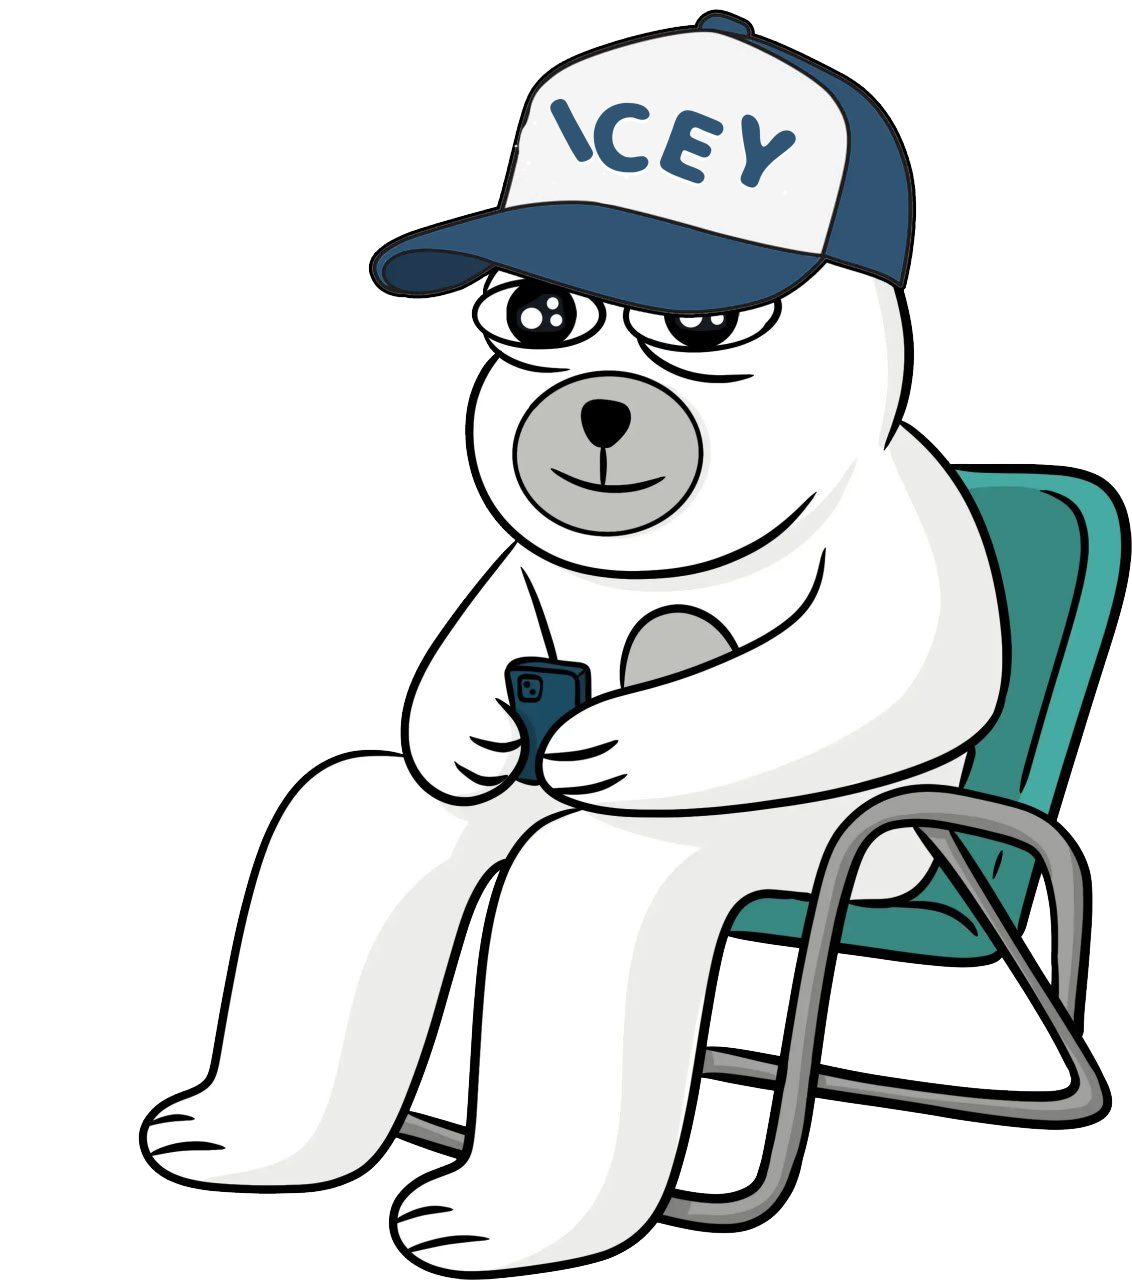
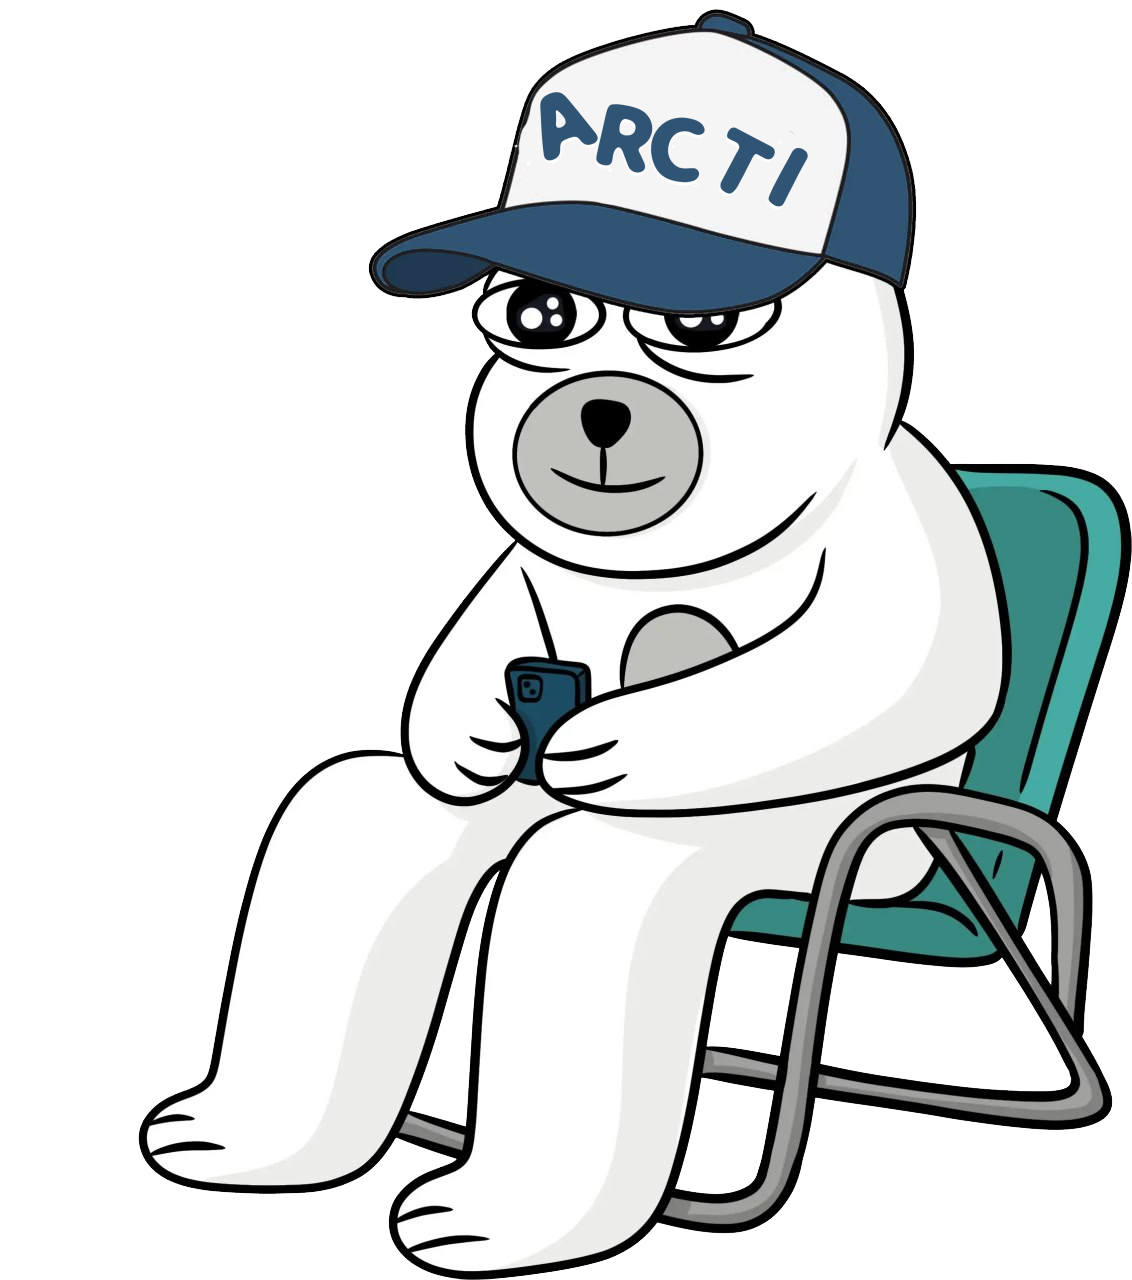
1

Changed region(s): [[0.4638, 0.0625, 0.7111, 0.1562]]

diff --git a/index.html b/index.html
@@ -16,14 +16,14 @@
 		<meta name="distribution" content="global"> 
 		<meta name="robots" content="index,follow"> 
 		<meta name="country" content="US">
-		<meta name="description" content="ICEY is the newest charismatic fluffy ruler of the frozen crypto tundra. This fun, decentralized, community-driven token is built on Solana Chain.">
+		<meta name="description" content="ARCTI is the newest charismatic fluffy ruler of the frozen crypto tundra. This fun, decentralized, community-driven token is built on Solana Chain.">
 		<meta name="google-site-verification" content="">
 		
 		<!-- Open Graph Meta Tags -->
 		<meta property="og:type" content="website">
 		<meta property="og:url" content="">
-		<meta property="og:title" content="ICEY | The Official ICEY Bear on Solanachain">
-		<meta property="og:description" content="ICEY is the newest charismatic fluffy ruler of the frozen crypto tundra. This fun, decentralized, community-driven token is built on Solana Chain.">
+		<meta property="og:title" content="ARCTI | The Official ARCTI Bear on Solanachain">
+		<meta property="og:description" content="ARCTI is the newest charismatic fluffy ruler of the frozen crypto tundra. This fun, decentralized, community-driven token is built on Solana Chain.">
 
 		
 
@@ -37,7 +37,7 @@
 		<meta name="msapplication-TileColor" content="#9c2730">
 		<meta name="theme-color" content="#ffffff">
 		
-		<title>ICEY | The Official Polar Bear on Solanachain</title>
+		<title>ARCTI | The Official Polar Bear on Solanachain</title>
 		<link href="assets/css/include.css" rel="stylesheet">
 		<!-- Google tag (gtag.js) -->
 		<script async src="https://www.googletagmanager.com/gtag/js?id=G-083C66RB80"></script>
@@ -63,17 +63,17 @@
 				<div class="container position-relative z-1">
 					<div class="hero w-100">
 						<h1 class="banner milky display-l lh-1 hstack align-items-center justify-content-center text-blue-4">
-							<span style="margin-right: 40px"> I </span>
-							<span> </span>
-							<span> C</span>
-							<span> E</span>
-							<span> Y </span>
+							<span style="margin-right: 40px">A</span>
+							<span>R</span>
+							<span>C</span>
+							<span>T</span>
+							<span>I </span>
 <!--							<span style="rotate: -10deg; margin-left:-20px; margin-right: 10px;">E</span>-->
 <!--							<span>R</span>-->
 
 						</h1>
 						<div class="vstack mx-auto col-12 col-xl-6 milky fs-3 text-center gap-1 lh-base text-blue-4">
-							<span>Hi I'm ICEY</span>
+							<span>Hi I'm ARCTI</span>
 							<span>I'm the coldest, chillest, and funniest bear</span>
 							<span>in the entire SOLArctic. Welcome to my world.</span>
 						</div>
@@ -132,8 +132,8 @@
 				<div class="container py-5 position-relative">
 					<div class="d-flex flex-column col-12 col-lg-8 justify-content-center gap-4 text-center position-relative z-1 py-0 py-md-5 text-blue-4 milky">
 						<h2 class="display-3">A New King Has Risen</h2>
-						<p class="fs-5 lh-base">Meet ICEY, the latest ruler of the icy domains of cryptocurrency, a royal polar bear who's more chilled than the arctic ice and cooler than the other side of the pillow. Born on the vast, frostbitten landscapes of the Solana Chain, this fluffy monarch has swiftly ascended to the throne, not through bloodshed or conquest, but with sheer charisma and an unshakable belief in the power of meme magic.</p>
-						<p class="fs-5 lh-base">This is not your average bear. ICEY's reign is marked by his unorthodox approach to governance; he rules with a gentle paw and a heart as big as his appetite for salmon. In a world where seriousness often overshadows fun, ICEY dares to ask, "Why not both?" He's democratizing the crypto kingdom one belly slide at a time, proving that you can indeed mix business with pleasure and that every bear can have his fish and eat it too.</p>
+						<p class="fs-5 lh-base">Meet ARCTI, the latest ruler of the icy domains of cryptocurrency, a royal polar bear who's more chilled than the arctic ice and cooler than the other side of the pillow. Born on the vast, frostbitten landscapes of the Solana Chain, this fluffy monarch has swiftly ascended to the throne, not through bloodshed or conquest, but with sheer charisma and an unshakable belief in the power of meme magic.</p>
+						<p class="fs-5 lh-base">This is not your average bear. ARCTI's reign is marked by his unorthodox approach to governance; he rules with a gentle paw and a heart as big as his appetite for salmon. In a world where seriousness often overshadows fun, ARCTI dares to ask, "Why not both?" He's democratizing the crypto kingdom one belly slide at a time, proving that you can indeed mix business with pleasure and that every bear can have his fish and eat it too.</p>
 					</div>
 				</div>
 				<div class="baby-pola"></div>
@@ -143,17 +143,17 @@
 					<div class="d-flex flex-column-reverse flex-md-row gap-4">
 						<div class="d-flex flex-column justify-content-center gap-4 col-12 col-md-6">
 							<div class="d-flex flex-column gap-1 text-blue-4">
-								<span class="fs-4 milky lh-base">ICEY on Solanachain</span>
-								<h2 class="milky display-s lh-1 ">OFFICIAL ICEY LINKS</h2>
+								<span class="fs-4 milky lh-base">ARCTI on Solanachain</span>
+								<h2 class="milky display-s lh-1 ">OFFICIAL ARCTI LINKS</h2>
 							</div>
 
 							<div class="d-flex flex-column gap-2">
 								<span class="fs-6 milky fw-bolder text-blue-4">Social &amp; Onchain Data</span>
 								<div class="socials hstack gap-3">
-									<a href="https://x.com/iceycoinsol" target="_blank">
+									<a href="https://x.com/arcticoinsol" target="_blank">
 										<div class="icon twitter rounded-circle"></div>
 									</a>
-									<a href="https://t.me/iceycoinsol" target="_blank">
+									<a href="https://t.me/arcticoinsol" target="_blank">
 										<div class="icon telegram rounded-circle"></div>
 									</a>
 									<a href="#" target="_blank">
@@ -168,7 +168,7 @@
 								<span class="fs-6 milky fw-bolder text-blue-4">Exchanges (MORE TBA)</span>
 								<div class="row row-cols-2 row-cols-lg-3 g-3">
 									<div class="col">
-										<a href="https://pump.fun/8CoCsoMF15LjrF39zxt5B6wJXwpQFmv656m4Ws1Eice" target="_blank" class="h-100 btn btn-md btn-light rounded-pill w-100 py-2 px-3">
+										<a href="https://pump.fun/t6pjbsGc2hfBVdZF7kQhSceyDdxn3rmZvP3Q3NVGump" target="_blank" class="h-100 btn btn-md btn-light rounded-pill w-100 py-2 px-3">
 											<img src="assets/logos/pumpfun.svg" class="w-75 mt-1" alt="uniswap link">
 										</a>
 									</div>
@@ -191,10 +191,10 @@
 							</div-->
 						</div>
 						<div class="col-12 col-md-4 pola-in-phone">
-							<a class="polarmy-buble polarmy-link" href="https://t.me/iceycoinsol"><img src="assets/images/pola-phone-bubble-r.png" class="w-100 " alt="click to join polarmy"></a>
-							<a href="https://t.me/iceycoinsol"><img src="assets/images/pola-phone-r.png" class="w-100 " alt="pola having fun on tg"></a>
-							<a class="polarmy-buble polarmy-link" href="https://t.me/iceycoinsol"><img src="assets/images/pola-phone-bubble-l.png" class="w-100 " alt="click to join polarmy"></a>
-							<a  href="https://t.me/iceycoinsol"><img src="assets/images/pola-phone-l.png" class="w-100 " alt="pola having fun on tg"></a>
+							<a class="polarmy-buble polarmy-link" href="https://t.me/arcticoinsol"><img src="assets/images/pola-phone-bubble-r.png" class="w-100 " alt="click to join polarmy"></a>
+							<a href="https://t.me/arcticoinsol"><img src="assets/images/pola-phone-r.png" class="w-100 " alt="pola having fun on tg"></a>
+							<a class="polarmy-buble polarmy-link" href="https://t.me/arcticoinsol"><img src="assets/images/pola-phone-bubble-l.png" class="w-100 " alt="click to join polarmy"></a>
+							<a  href="https://t.me/arcticoinsol"><img src="assets/images/pola-phone-l.png" class="w-100 " alt="pola having fun on tg"></a>
 						</div>
 					</div>
 					
@@ -220,17 +220,17 @@
 			<section id="tokenomics" class="position-relative bg-blue-4 py-5 snow-cap">
 				<div class="container py-5 position-relative">
 					<div class="vstack gap-4 text-center mb-5 col-12 col-xl-6 mx-auto text-white milky">
-						<h2 class="display-1 shouxietongzhen gradient-txt-1">ICEYnomics</h2>
-						<p class="fs-5 lh-base">Adhering to the ethos of decentralization, $ICEY adopted a strategy to ensure genuine community ownership and nurture growth with steadfast support from the community.</p>
+						<h2 class="display-1 shouxietongzhen gradient-txt-1">ARCTInomics</h2>
+						<p class="fs-5 lh-base">Adhering to the ethos of decentralization, $ARCTI adopted a strategy to ensure genuine community ownership and nurture growth with steadfast support from the community.</p>
 					</div>
 
 					<div class="d-flex flex-column flex-xl-row disclaimer rounded-4 p-3 border border-4 border-blue-1 shadow gap-3 col-12 col-xl-8 mx-auto mb-4 bg-white milky text-blue-4">
-						<a href="https://pump.fun/8CoCsoMF15LjrF39zxt5B6wJXwpQFmv656m4Ws1Eice"><button class="btn btn-lg btn-light px-3">
-							<span class="fw-bold fs-6 text-blue-4">Buy $ICEY</span>
+						<a href="https://pump.fun/t6pjbsGc2hfBVdZF7kQhSceyDdxn3rmZvP3Q3NVGump"><button class="btn btn-lg btn-light px-3">
+							<span class="fw-bold fs-6 text-blue-4">Buy $ARCTI</span>
 						</button></a>
 						<div class="col-12 col-xl-10 hstack gap-3 justify-content-between rounded-3 border p-1 fs-6">
-							<span class="text-truncate fw-bold ms-3 contact">Contract address: 8CoCsoMF15LjrF39zxt5B6wJXwpQFmv656m4Ws1Eice</span>
-							<button class="btn btn-md btn-light copy" data-text="8CoCsoMF15LjrF39zxt5B6wJXwpQFmv656m4Ws1Eice">
+							<span class="text-truncate fw-bold ms-3 contact">Contract address: t6pjbsGc2hfBVdZF7kQhSceyDdxn3rmZvP3Q3NVGump</span>
+							<button class="btn btn-md btn-light copy" data-text="t6pjbsGc2hfBVdZF7kQhSceyDdxn3rmZvP3Q3NVGump">
 								<i class="bi bi-clipboard"></i>
 							</button>
 						</div>
@@ -303,7 +303,7 @@
 									<img src="assets/images/icons/base.svg" class="w-100" alt="base logo">
 								</div>
 								<h3 class="fw-bolder fs-1 milky text-uppercase lh-1">Secure Solana (BASE ETH)</h3>
-								<p class="fs-6 lh-base milky">Purchase Solanachain Ethereum (BASE), the foundational currency required for transactions on the base network where $ICEY operates. BASE ETH acts as the "gas" for transactions, including buying $ICEY.</p>
+								<p class="fs-6 lh-base milky">Purchase Solanachain Ethereum (BASE), the foundational currency required for transactions on the base network where $ARCTI operates. BASE ETH acts as the "gas" for transactions, including buying $ARCTI.</p>
 							</div>
 						</div>
 						<div class="col">
@@ -311,8 +311,8 @@
 								<div class="col-4 col-md-2">
 									<img src="assets/images/pola-5.webp" class="w-100" alt="buy pola">
 								</div>
-								<h3 class="fw-bolder fs-1 milky text-uppercase lh-1">Buy $ICEY</h3>
-								<p class="fs-6 lh-base milky">Use your newly acquired BASE ETH to purchase $ICEY tokens through a cryptocurrency exchange or decentralized exchange platform that lists $ICEY.</p>
+								<h3 class="fw-bolder fs-1 milky text-uppercase lh-1">Buy $ARCTI</h3>
+								<p class="fs-6 lh-base milky">Use your newly acquired BASE ETH to purchase $ARCTI tokens through a cryptocurrency exchange or decentralized exchange platform that lists $ARCTI.</p>
 							</div>
 						</div>
 						<div class="col">
@@ -321,7 +321,7 @@
 									<img src="assets/images/icons/crypto-wallet.svg" class="w-100" alt="wallet logo">
 								</div>
 								<h3 class="fw-bolder fs-1 milky text-uppercase lh-1">Add To Your Wallet</h3>
-								<p class="fs-6 lh-base milky">Import $ICEY tokens into your MetaMask wallet by adding the pola token's contract address. This allows you to view and manage your $ICEY holdings directly within MetaMask.</p>
+								<p class="fs-6 lh-base milky">Import $ARCTI tokens into your MetaMask wallet by adding the pola token's contract address. This allows you to view and manage your $ARCTI holdings directly within MetaMask.</p>
 							</div>
 						</div>
 					</div>
@@ -339,8 +339,8 @@
 					
 						<img src="assets/images/VPN-Logo.svg" class="vpn-logo" alt="pola vpn logo">
 						
-						<h2 class="text-nowrap milky display-s lh-1">ICEY VPN</h2>
-						<span class="text-center fs-6 lh-base milky">ICEYVPN is the very first memecoin to have this feature. it is your gateway to a secure and unrestricted online experience, designed with your privacy in mind. Whether you're browsing, streaming, or working remotely, ICEYVPN ensures your data stays protected and your connections remain anonymous.</span>
+						<h2 class="text-nowrap milky display-s lh-1">ARCTI VPN</h2>
+						<span class="text-center fs-6 lh-base milky">ARCTIVPN is the very first memecoin to have this feature. it is your gateway to a secure and unrestricted online experience, designed with your privacy in mind. Whether you're browsing, streaming, or working remotely, ARCTIVPN ensures your data stays protected and your connections remain anonymous.</span>
 						<div class="vpn-button-container" >
 							<button type="button" id="openISOApp" class="vpn-button border btn btn-light rounded-pill milky py-4 p-5 hstack gap-3 justify-content-center w-48">
 								<span class="fw-bolder fs-4">Android App soon</span>
@@ -397,10 +397,10 @@
 								<img src="assets/images/nfts/10.webp" alt="pola nft">
 							</div>
 						</div>
-						<h2 class="display-s lh-1 milky text-blue-4">ICEY NFT</h2>
+						<h2 class="display-s lh-1 milky text-blue-4">ARCTI NFT</h2>
 						<div class="vstack gap-3 fs-6 fw-normal lh-base text-dark text-opacity-75">
-							<p>Explore ICEY NFT, an enchanting collection of 5,000 NFTs, released on Solana drawing inspiration from a cherished polar bear, these NFTs capture the essence and spirit of a unique polar bear-inspired theme.</p>
-							<p>Owning a ICEY NFT connects you to the dynamic community surrounding this theme, signifying your appreciation and embrace of the unique culture these digital assets symbolize.</p>
+							<p>Explore ARCTI NFT, an enchanting collection of 5,000 NFTs, released on Solana drawing inspiration from a cherished polar bear, these NFTs capture the essence and spirit of a unique polar bear-inspired theme.</p>
+							<p>Owning a ARCTI NFT connects you to the dynamic community surrounding this theme, signifying your appreciation and embrace of the unique culture these digital assets symbolize.</p>
 						</div>
 						<div>
 							<span class="fw-bold fw-bold py-2 rounded-pill">Collection Coming Soon</span>
@@ -417,14 +417,14 @@
 							<div class="d-flex flex-column gap-1 text-blue-4">
 								<span class="fs-4 milky">Ice Cream Products</span>
 								<div class="hstack">
-									<h2 id="data-title" class="text-nowrap milky display-s lh-1">ICEYPops</h2>
+									<h2 id="data-title" class="text-nowrap milky display-s lh-1">ARCTIPops</h2>
 									<span class="fs-2 fw-bold lh-1">ⓒ</span>
 								</div>
-								<span id="data-description" class="fs-6 lh-base milky">ICEY Pops brings a refreshing twist to your favorite frozen treat! Our ice creams are handcrafted with natural ingredients, offering a burst of flavors that are as unique as they are delicious. From the classic creamy delights to exotic fruit-filled wonders, each ICEY Pop is designed to provide a blissful escape into a world of sweet, frosty pleasure.</span>
+								<span id="data-description" class="fs-6 lh-base milky">ARCTI Pops brings a refreshing twist to your favorite frozen treat! Our ice creams are handcrafted with natural ingredients, offering a burst of flavors that are as unique as they are delicious. From the classic creamy delights to exotic fruit-filled wonders, each ARCTI Pop is designed to provide a blissful escape into a world of sweet, frosty pleasure.</span>
 							</div>
 
 							<div class="d-flex flex-column gap-4">
-								<span class="fs-3 milky text-blue-4">ICEYPops Flavors</span>
+								<span class="fs-3 milky text-blue-4">ARCTIPops Flavors</span>
 								<div class="row row-cols-3 row-cols-md-5 g-3 ice-creams">
 																		<div data-id="1" class="col data-source">
 										<a role="button" data-image="assets/flavors/1.webp" class="vstack h-100 rounded-4 p-3 gap-3 text-center">
@@ -493,7 +493,7 @@
 								<span class="fw-bold fs-6">Legal Disclaimer</span>
 								<i class="bi bi-arrow-down-circle-fill"></i>
 							</a>
-							<p id="legal" class="p-3 fs-7 lh-base d-none text-white">The content on the ICEY Token website is not meant to be understood as investment, financial, trading, or any form of advice, and should not be interpreted as such. ICEY Token does not suggest that any should be bought, sold, or held by you. It is important to perform your own thorough research and consult with your financial advisor prior to making any investment decisions. By acquiring ICEY Token, you acknowledge that you are not obtaining a security or investment and you agree to absolve ICEY Token of any responsibility for any losses or taxes you may face. Additionally, you accept that ICEY Token is offered "as is" without any obligation for support or services. Expectations from ICEY Token should be none. Although ICEY Token is designed for social networking and is not a registered digital currency, it is highly advised that individuals in locations where is banned by the government refrain from purchasing it, as ICEY Token cannot guarantee adherence to the legal requirements of your region. Always ensure your actions are in full compliance with local laws and regulations before making any purchases.</p>
+							<p id="legal" class="p-3 fs-7 lh-base d-none text-white">The content on the ARCTI Token website is not meant to be understood as investment, financial, trading, or any form of advice, and should not be interpreted as such. ARCTI Token does not suggest that any should be bought, sold, or held by you. It is important to perform your own thorough research and consult with your financial advisor prior to making any investment decisions. By acquiring ARCTI Token, you acknowledge that you are not obtaining a security or investment and you agree to absolve ARCTI Token of any responsibility for any losses or taxes you may face. Additionally, you accept that ARCTI Token is offered "as is" without any obligation for support or services. Expectations from ARCTI Token should be none. Although ARCTI Token is designed for social networking and is not a registered digital currency, it is highly advised that individuals in locations where is banned by the government refrain from purchasing it, as ARCTI Token cannot guarantee adherence to the legal requirements of your region. Always ensure your actions are in full compliance with local laws and regulations before making any purchases.</p>
 						</div>
 
 						<div class="vstack disclaimer rounded-4 shadow-sm">
@@ -506,11 +506,11 @@
 
 						<div class="d-flex flex-column flex-xl-row disclaimer rounded-4 p-3 shadow gap-3">
 							<button class="btn btn-lg btn-light px-3">
-								<a class="fw-bold fs-6 text-nowrap text-black" href="https://pump.fun/8CoCsoMF15LjrF39zxt5B6wJXwpQFmv656m4Ws1Eice" target="_blank">Buy $ICEY</a>
+								<a class="fw-bold fs-6 text-nowrap text-black" href="https://pump.fun/t6pjbsGc2hfBVdZF7kQhSceyDdxn3rmZvP3Q3NVGump" target="_blank">Buy $ARCTI</a>
 							</button>
 							<div class="col-12 col-xl-10 text-white hstack gap-3 justify-content-between rounded-3 border p-1 fs-6">
-								<span class="text-truncate fw-bold ms-3 contact">Contract address: 8CoCsoMF15LjrF39zxt5B6wJXwpQFmv656m4Ws1Eice</span>
-								<button class="btn btn-md btn-light copy" data-text="8CoCsoMF15LjrF39zxt5B6wJXwpQFmv656m4Ws1Eice">
+								<span class="text-truncate fw-bold ms-3 contact">Contract address: t6pjbsGc2hfBVdZF7kQhSceyDdxn3rmZvP3Q3NVGump</span>
+								<button class="btn btn-md btn-light copy" data-text="t6pjbsGc2hfBVdZF7kQhSceyDdxn3rmZvP3Q3NVGump">
 									<i class="bi bi-clipboard"></i>
 								</button>
 							</div>
@@ -520,10 +520,10 @@
 							<div class="col-12 col-md-4">
 								<div class="vstack gap-3">
 									<img src="assets/logos/pola.svg" class="col-8" alt="pola logo">
-									<small class="d-block mb-3">Collect, create, and engage with ICEY!</small>
+									<small class="d-block mb-3">Collect, create, and engage with ARCTI!</small>
 									<div class="hstack gap-4">
-										<a href="https://x.com/iceycoinsol" target="_blank" class="fs-4"><i class="bi bi-twitter"></i></a>
-										<a href="https://t.me/iceycoinsol" target="_blank" class="fs-4"><i class="bi bi-telegram"></i></a>
+										<a href="https://x.com/arcticoinsol" target="_blank" class="fs-4"><i class="bi bi-twitter"></i></a>
+										<a href="https://t.me/arcticoinsol" target="_blank" class="fs-4"><i class="bi bi-telegram"></i></a>
 									</div>
 								</div>
 							</div>
@@ -537,13 +537,13 @@
 		<div class="menu text-nowrap rounded-pill position-fixed bottom-0 z-3 bg-white border border-4 shadow d-none d-lg-block">
 			<div class="menu-list hstack gap-1">
 								<a href="#home" class="d-none d-md-block btn rounded-pill active.">Home</a>
-								<a href="#about" class="d-none d-md-block btn rounded-pill">About ICEY</a>
+								<a href="#about" class="d-none d-md-block btn rounded-pill">About ARCTI</a>
 								<a href="#links" class="d-none d-md-block btn rounded-pill">Ecosystem</a>
 								<a href="#tokenomics" class="d-none d-md-block btn rounded-pill">Tokenomics</a>
 
 								<a href="#vpn" class="d-none d-md-block btn rounded-pill">VPN</a>
 								<a href="#nft" class="d-none d-md-block btn rounded-pill">NFT</a>
-								<a href="#popsicles" class="d-none d-md-block btn rounded-pill">ICEYPops</a>
+								<a href="#popsicles" class="d-none d-md-block btn rounded-pill">ARCTIPops</a>
 								<a href="#" class="d-block d-md-none hamburger-menu">
 					<div></div>
 					<div></div>
